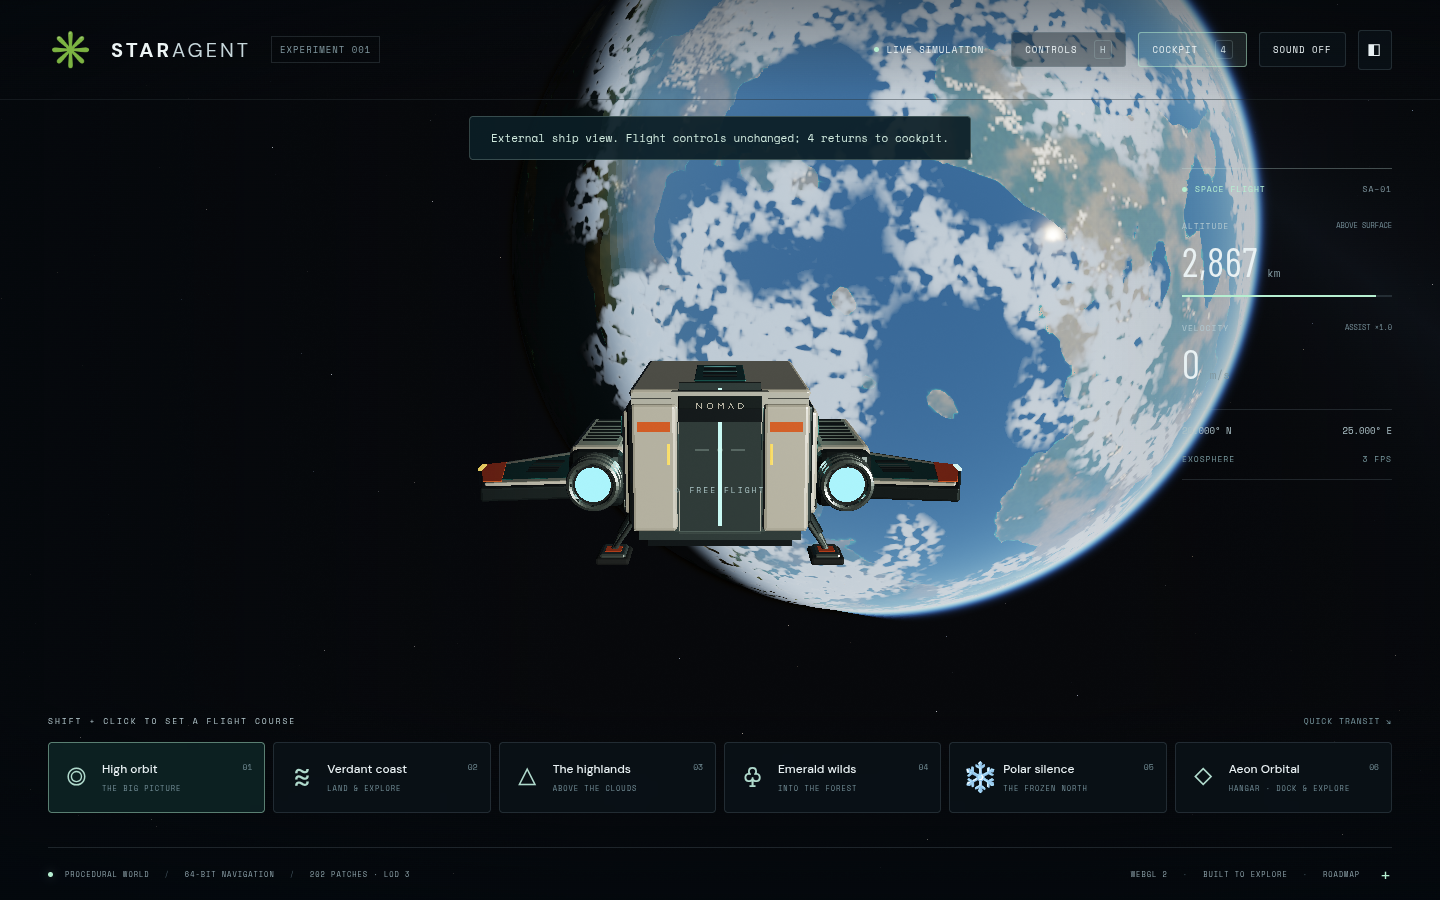
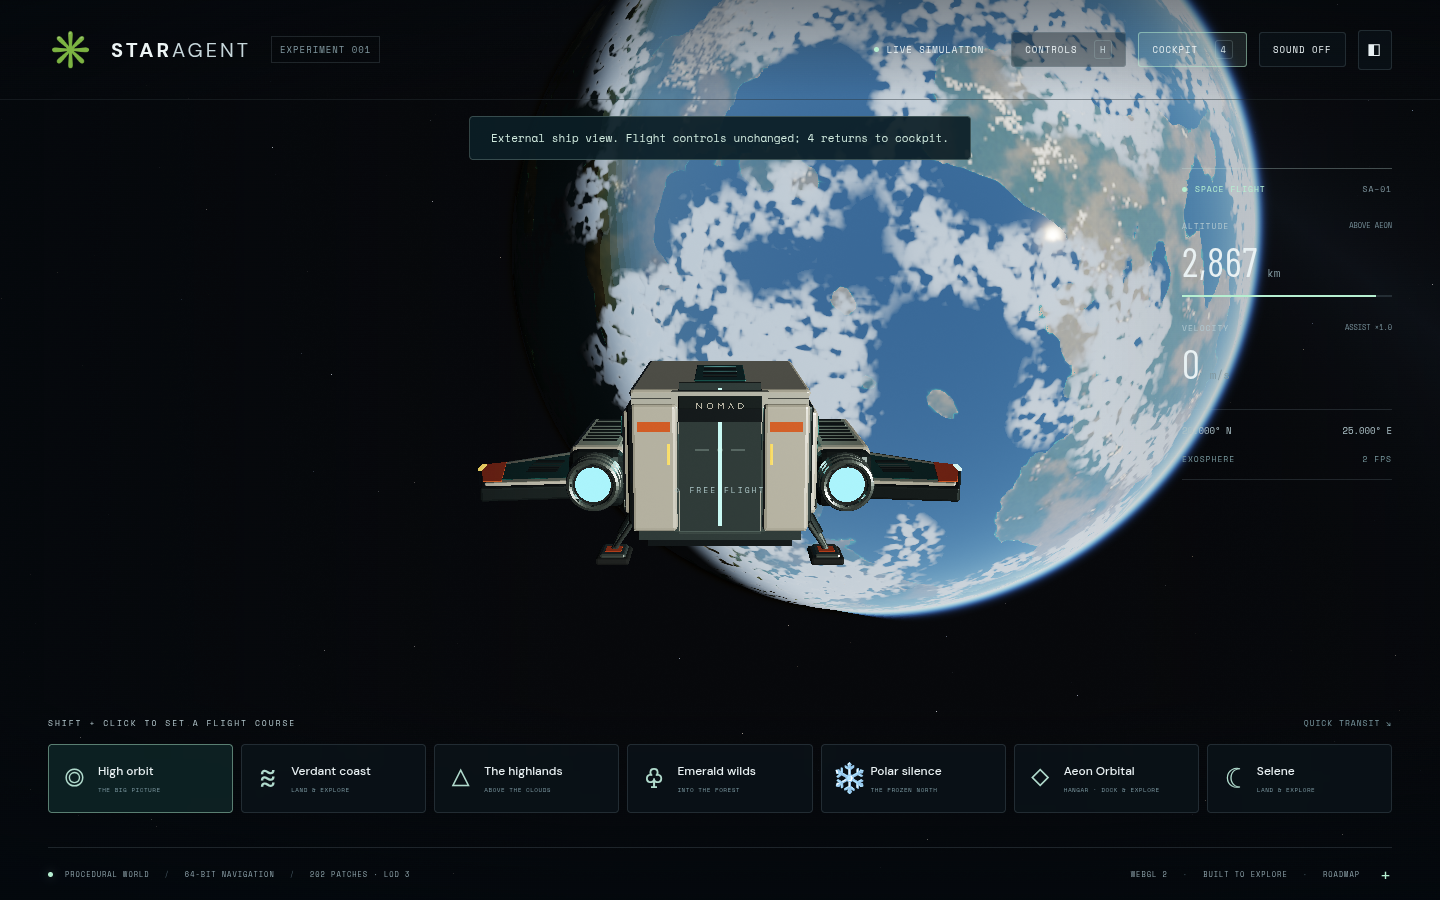
Record player camera browser validation and review images

diff --git a/scripts/ship-camera.spec.js b/scripts/ship-camera.spec.js
@@ -77,7 +77,7 @@ test('4 and camera button show the new ship, preserve flight, and respect typing
   await capture('player-external');
   await page.keyboard.press('Numpad4');
   await expect.poll(()=>page.evaluate(()=>window.starAgent.state.camera.mode)).toBe('first-person');
-  expect(await page.evaluate(()=>window.starAgent.state.character.visible)).toBe(false);
+  await expect.poll(()=>page.evaluate(()=>window.starAgent.state.character.visible)).toBe(false);
   const firstEye=await page.evaluate(()=>window.starAgent.state.position);
   expect(Math.hypot(...eye.map((n,i)=>n-firstEye[i]))).toBeLessThan(.01);
   await page.locator('#camera-button').click();
@@ -93,7 +93,7 @@ test('4 and camera button show the new ship, preserve flight, and respect typing
   await page.evaluate(()=>{const nav=window.starAgent.navigation;nav.position.copy(nav.fromShipLocal(nav.position.clone().set(0,2.75,-1.2)));nav.velocity.set(0,0,0);nav.embark();});
   await expect.poll(()=>page.evaluate(()=>window.starAgent.state.mode)).toBe('landed');
   await expect.poll(()=>page.evaluate(()=>window.starAgent.state.camera.mode)).toBe('external');
-  expect(await page.evaluate(()=>window.starAgent.state.character.visible)).toBe(false);
+  await expect.poll(()=>page.evaluate(()=>window.starAgent.state.character.visible)).toBe(false);
   const backend=await page.evaluate(()=>{
     const gl=document.querySelector('canvas').getContext('webgl2'),ext=gl.getExtension('WEBGL_debug_renderer_info');
     return ext?gl.getParameter(ext.UNMASKED_RENDERER_WEBGL):gl.getParameter(gl.RENDERER);

diff --git a/docs/external-camera.md b/docs/external-camera.md
@@ -1,18 +1,24 @@
-# External ship camera
+# External ship and player camera
 
-Press **4**, **Numpad 4**, or the **EXTERNAL 4** header button to toggle a chase view above and behind the ship. The normal controls still fly the ship. Press again for cockpit view; the cockpit stays visible even without pointer lock once camera viewing has been activated. Leaving the pilot seat restores first person. Shortcuts ignore typing, held repeats, modifier chords, dialogs and inventory.
+Press **4**, **Numpad 4**, or the **EXTERNAL 4** header button to toggle external view. While seated, this shows the ship from above and behind; on foot, it shows the animated player over the shoulder. Press again for cockpit / first person. Walking and ship selections are independent and survive entering or leaving the seat. Normal movement, looking and jumping remain active. Shortcuts ignore typing, held repeats, modifier chords, dialogs and inventory.
+
+![External player view](images/external-camera-player.png)
 
 ![External Nomad view in orbit](images/external-camera-orbit.png)
 
-`src/ship-camera.js` owns camera selection and computes presentation-only world position and orientation. Navigation remains at the physical pilot eye, with unchanged velocity and ship orientation. The actual camera world position is used as the render origin and supplied to planet/vegetation LOD, local lighting and atmosphere/cloud rendering. Ship/station positions are rebased in JS doubles before GPU upload.
+`src/ship-camera.js` computes presentation-only position and orientation. Navigation keeps the physical eye position, velocity and orientation. The actual camera world position drives render origin, terrain/vegetation/moon LOD, lighting and atmosphere. World differences remain JS doubles before GPU upload.
 
-The boom samples the shared terrain/sea-level surface at at most 1 m spacing, bisects the first obstruction and keeps 45 cm clearance. Station obstruction uses the existing conservative walking-capsule sweep. A shortened boom temporarily falls back to cockpit if the camera would lie inside the authored ship envelope; the selected external view resumes when clear. This is a chase camera, not free orbit or a photo-camera controller. Tree/prop collision is not added, and sub-metre terrain features between samples remain a sampling limitation.
+Walking reuses the existing `Character` module and male Meshy pilot, aligned to the navigation support frame and animated from planar velocity and jump state. The model is hidden in first person and while seated. This adds no character selection, equipment controls or opening cinematic.
 
-Validation: 52 unit cases including six camera cases; production Vite build; two production Chromium cases covering keyboard/button toggle, unchanged navigation position, flight thrust, numeric input, the new Nomad asset, surface viewing, hangar retraction, seat exit and a 390×844 header layout. No console/page errors. Screenshots and backend metadata are under `/tmp/star-agent-camera`; desktop evidence is 1440×900 Chromium 151 with ANGLE/Vulkan SwiftShader. No hardware FPS claim.
+The boom samples the shared Aeon/Selene terrain and water surface at at most 1 m spacing, bisects obstruction and keeps 45 cm clearance. Hangar obstruction uses the existing walking-capsule sweep. Walking also clips against visible ship triangles with 25 cm clearance; hidden fallback meshes are ignored. Tight spaces temporarily return to first person / cockpit, then restore the selected external view when clear. Trees and loose props are not camera obstructions, and sub-metre terrain features between samples remain a sampling limitation.
+
+Verification commands:
 
 ```sh
 npm test
 npm run test:browser -- -c scripts/ship-camera.config.js
 ```
 
-This branch is based on the Blender Nomad ship PR. It excludes parallel controller/crash/forest/re-entry changes. During integration, preserve this change's use of the actual render origin in atmosphere and vegetation; continue passing navigation position to physical station/flight logic. If re-entry is merged, update its view-space uniforms after this camera pose is applied.
+Based on `feat/visual-fidelity` at f028a43, including controller support, Nomad and Selene. Keep the render origin in view-dependent systems during integration; physical station and flight logic still use navigation position. If re-entry is integrated, update its view-space uniforms after applying this camera pose.
+
+Verified 2026-09-06: `npm test` passed all 11 test files (including nine camera cases and the existing character tests); production Vite build passed; both Chromium camera cases passed. The browser journey checks ship and player keyboard/button toggles, unchanged physical eye position, normal thrust, walking/jumping animation, typing guards, hangar/cabin views, independent seat transitions and a 390×844 header. No page or console errors. Desktop screenshots above were inspected at 1440×900 on Chromium 151.0.7922.173, ANGLE/Vulkan SwiftShader. Raw images and backend metadata: `/tmp/star-agent-camera`. No hardware FPS claim.
